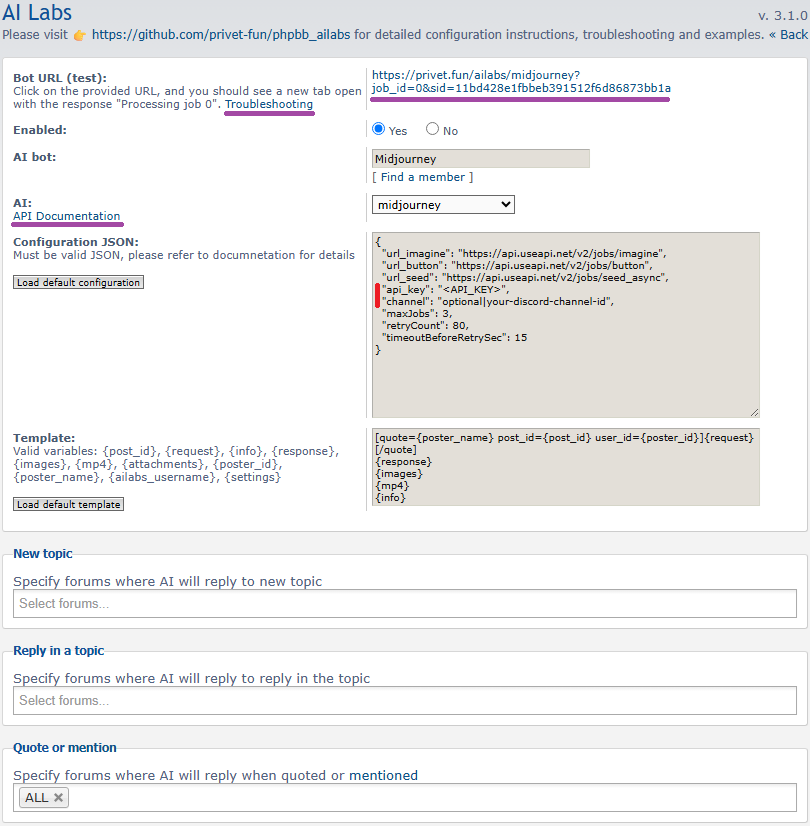
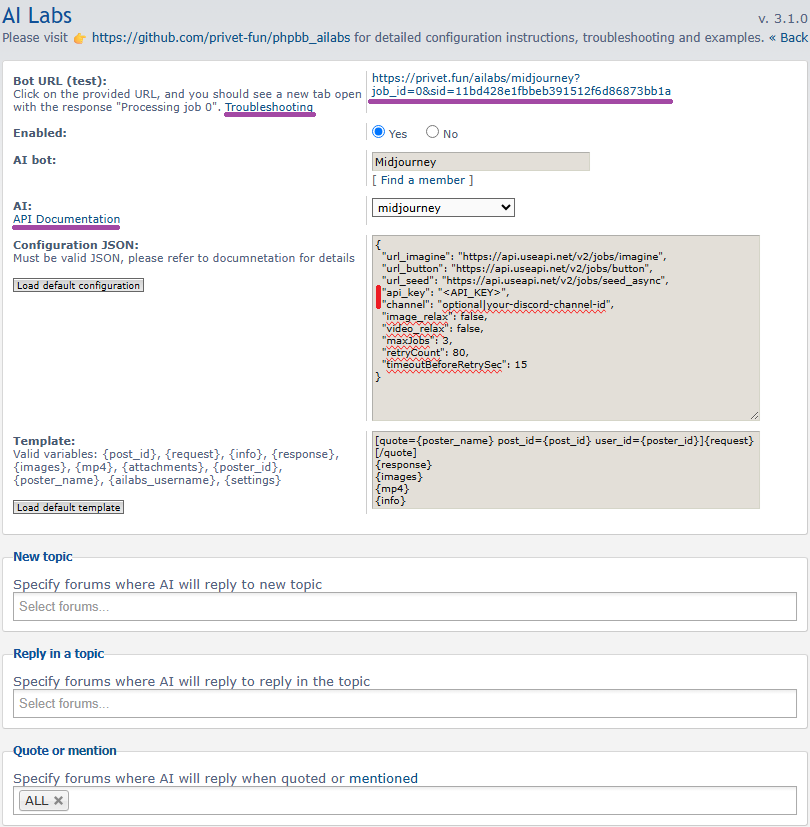
Update Midjourney setup image and docs

diff --git a/privet/ailabs/adm/style/acp_ailabs_body.html b/privet/ailabs/adm/style/acp_ailabs_body.html
@@ -100,6 +100,8 @@
 				"url_seed": "https://api.useapi.net/v2/jobs/seed_async",
 				"api_key": "<API_KEY>",
 				"channel": "optional|your-discord-channel-id",
+				"image_relax": false,
+  				"video_relax": false,
 				"maxJobs": 3,
 				"retryCount": 80,
 				"timeoutBeforeRetrySec": 15

diff --git a/privet/ailabs/README.md b/privet/ailabs/README.md
@@ -112,6 +112,7 @@ To add `mp3` BBCode tag, go to `ACP` > `POSTING` > `BBCodes` and add `mp3` tag a
 ## BBCode `mp4` tag
 
 The following Discord AI bots are generating `mp4` videos and will require adding the `[mp4]` BBCode tag:  
+* [Midjourney](#midjourney-setup)
 * [Pika](#pika-setup)
 
 To add `mp4` BBCode tag, go to `ACP` > `POSTING` > `BBCodes` and add `mp4` tag as shown below:  
@@ -498,7 +499,7 @@ This extension is currently being actively developed. For communication, please 
   - Added support for [Midjourney Video](https://docs.midjourney.com/hc/en-us/articles/37460773864589-Video).   
     See [examples](https://privet.fun/viewtopic.php?t=5748) and [Midjourney setup](#midjourney-setup) for details and recommendations.    
     👉 Please note that you **MUST** reload/update both the Midjourney bot [configuration and template](#midjourney-setup) and the [BBCode `mp4` tag](#bbcode-mp4-tag) if you plan to enable Midjourney Video generation.
-  - Updated Midjourney configuration to match recent changes in the https://useapi.net [Midjourney API](https://useapi.net/docs/api-v2): `discord` and `server` parameters have been removed and are no longer used.
+  - Updated [Midjourney configuration](#midjourney-setup) to match recent changes in the https://useapi.net [Midjourney API](https://useapi.net/docs/api-v2): `discord` and `server` parameters have been removed and are no longer used.
   - Updated [ChatGPT](#chatgpt-setup) setup configuration and instructions to follow the recently released `gpt-5` model configuration.
   - Updated [Gemini](#gemini-setup) and [Gemini Vision](#gemini-vision-setup) setup configuration and instructions to follow the recently released `gemini-2.5-flash` model configuration.
   - Added Dutch translation provided by goztov https://github.com/goztow.
